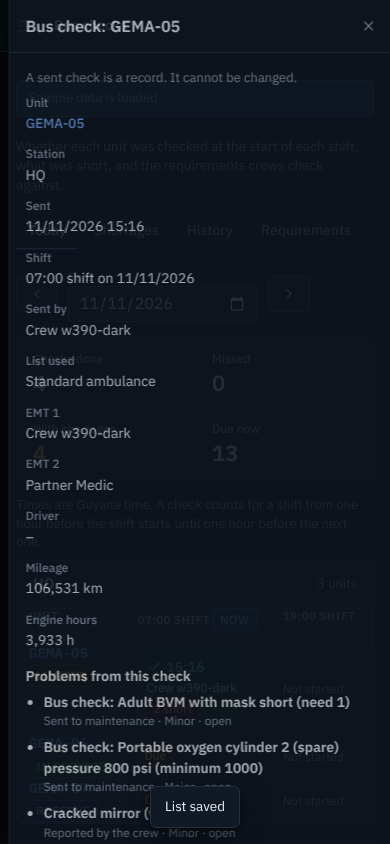
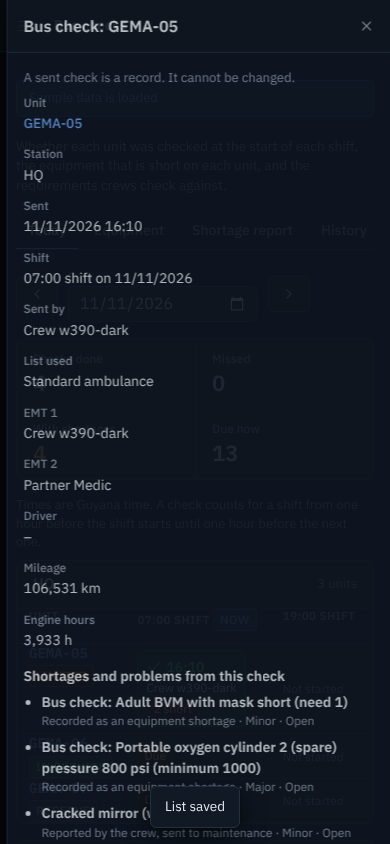
Bus checks: e2e for shortages vs problems and restocking, phone layout for shortages, docs, screenshots
Claude-Session: https://claude.ai/code/session_01YXYTtYruCkDW5r8aiUCHL9

diff --git a/src/client/buschecks-ui.ts b/src/client/buschecks-ui.ts
@@ -116,7 +116,7 @@ const lastCheckHtml = (r: any) => (r.lastCheckId && can('busCheckReports') ? `<b
 function shortageTable(rows: any[], id: string) {
   const any = rows.some((r) => eqCan(r.vehicleId));
   return `<div class="tscroll"><table class="t eqtable" id="${id}"><thead><tr><th scope="col">Item</th><th scope="col">What was found</th><th scope="col">First found</th><th scope="col" class="n">Checks</th><th scope="col">Last check</th>${any ? '<th scope="col"><span class="sr">Action</span></th>' : ''}</tr></thead><tbody>
-    ${rows.map((r) => `<tr id="eq-${esc(r.id)}"><td>${r.code ? `<span class="bccode">${esc(r.code)}</span> ` : ''}<b>${esc(r.name)}</b>${r.section ? `<div class="tiny muted">${esc(r.section)}</div>` : ''}</td><td>${esc(r.found)}</td><td>${esc(dmyHM(r.firstAt))}</td><td class="n">${r.checks}</td><td>${lastCheckHtml(r)}</td>${any ? `<td class="eqact">${eqCan(r.vehicleId) ? `<button type="button" class="btn sm" data-act="eq-restock" data-id="${esc(r.id)}" id="eqr-${esc(r.id)}" aria-label="Mark ${esc(r.name)} on ${esc(r.unit)} restocked"${rs.restocking ? ' disabled' : ''}>Mark restocked</button>` : ''}</td>` : ''}</tr>`).join('')}</tbody></table></div>`;
+    ${rows.map((r) => `<tr id="eq-${esc(r.id)}"><td>${r.code ? `<span class="bccode">${esc(r.code)}</span> ` : ''}<b>${esc(r.name)}</b>${r.section ? `<div class="tiny muted">${esc(r.section)}</div>` : ''}</td><td>${esc(r.found)}</td><td data-l="First found">${esc(dmyHM(r.firstAt))}</td><td class="n" data-l="Checks">${r.checks}</td><td data-l="Last check">${lastCheckHtml(r)}</td>${any ? `<td class="eqact">${eqCan(r.vehicleId) ? `<button type="button" class="btn sm" data-act="eq-restock" data-id="${esc(r.id)}" id="eqr-${esc(r.id)}" aria-label="Mark ${esc(r.name)} on ${esc(r.unit)} restocked"${rs.restocking ? ' disabled' : ''}>Mark restocked</button>` : ''}</td>` : ''}</tr>`).join('')}</tbody></table></div>`;
 }
 const eqCount = (n: number) => `${n} ${n === 1 ? 'shortage' : 'shortages'}`;
 function equipmentTab() {

diff --git a/src/client/style.css b/src/client/style.css
@@ -698,3 +698,14 @@ table.rolemx td.rc.unsaved{background:var(--accent-soft);box-shadow:inset 0 0 0 
 .bcknownl{margin:0;padding-left:18px}
 .bcknownl li{margin:0 0 8px}
 .dlg textarea{width:100%}
+@media (max-width:639.98px){
+  /* a phone cannot scroll sideways to reach Mark restocked: each shortage becomes a small card */
+  table.t.eqtable thead{display:none}
+  table.t.eqtable,table.t.eqtable tbody,table.t.eqtable tr,table.t.eqtable td{display:block;width:100%}
+  table.t.eqtable tr{padding:12px 0;border-top:1px solid var(--line)}
+  table.t.eqtable tr:first-child{border-top:none}
+  table.t.eqtable td,table.t.eqtable td:first-child,table.t.eqtable td:last-child{height:auto;padding:2px 12px;border:none;text-align:left;white-space:normal}
+  table.t.eqtable td[data-l]::before{content:attr(data-l) ": ";color:var(--muted);font-size:12px}
+  table.t.eqtable td.n{font:inherit}
+  table.t.eqtable td.eqact{padding-top:8px}
+}

diff --git a/test/api/agencies.test.ts b/test/api/agencies.test.ts
@@ -240,6 +240,11 @@ describe('ids from the other agency behave like unknown ids', () => {
     ['reset link', 'POST', '/api/users/{user}/reset-link'],
     ['download attachment', 'GET', '/api/attachments/{attachment}/file'],
     ['delete attachment', 'DELETE', '/api/attachments/{attachment}'],
+    ['restock a shortage', 'POST', '/api/bus-checks/equipment/restock', { ids: ['{issue}'] }],
+    ['equipment of the other agency\'s unit', 'GET', '/api/bus-checks/equipment?vehicleId={vehicle}'],
+    ['equipment of the other agency\'s base', 'GET', '/api/bus-checks/equipment?baseId={base}'],
+    ['equipment export of the other agency\'s unit', 'GET', '/api/bus-checks/equipment/export?vehicleId={vehicle}'],
+    ['known shortages of the other agency\'s unit', 'GET', '/api/bus-checks/equipment/known?vehicleId={vehicle}'],
   ];
   it('B using GEMA ids', async () => {
     await same(bAdmin, calls, { ...G, line: 'l-1' });

diff --git a/docs/HANDOVER.md b/docs/HANDOVER.md
@@ -76,34 +76,48 @@ Every change a person makes, and every sign-in, is recorded in the `audit_log` t
 
 ## Bus checks (start-of-shift ambulance inspection)
 
-**What it is.** A crew member opens **Operations > Bus check** on their phone, picks the unit, and does the full inspection: crew, mileage and engine hours, every item on the list for that kind of unit, any extra problems, and a confirmation tick. Managers read the results at **Admin > Bus checks**. The owner's decisions: it is always the full check (no quick version); different units can have different lists; a crew can send a check with shortages, and every shortage becomes a problem in maintenance automatically; fleet managers, system administrators and the super user can change the requirements.
+**What it is.** A crew member opens **Operations > Bus check** on their phone, picks the unit, and does the full inspection: crew, mileage and engine hours, every item on the list for that kind of unit, any extra problems, and a confirmation tick. Managers read the results at **Admin > Bus checks**. The owner's decisions: it is always the full check (no quick version); different units can have different lists; a crew can send a check with shortages; **equipment shortages are kept apart from vehicle problems** (below), and only a problem the crew types in themselves goes to maintenance; fleet managers, system administrators and the super user can change the requirements.
 
-**Who can do what** (three switches in Roles & permissions, so they can also be changed per role or per person; the server checks every one, the screen only hides what a person cannot use):
+**Who can do what** (four switches in Roles & permissions, so they can also be changed per role or per person; the server checks every one, the screen only hides what a person cannot use):
 
 | Switch | Default roles | Notes |
 | --- | --- | --- |
 | Do bus checks | Crew, base supervisor, fleet manager, system administrator | Only on units the person may act on: crew at their bases (all units if they have no bases set), base supervisors at their bases |
-| View bus check reports | Base supervisor (their own bases only), fleet manager, system administrator | Today, Shortages, History, one check, CSV exports, the unit's Bus checks tab |
+| View bus check reports | Base supervisor (their own bases only), fleet manager, system administrator | Today, Equipment, Shortage report, History, one check, CSV exports, the unit's Bus checks tab |
+| Mark equipment restocked | Base supervisor (only units at their own bases), fleet manager, system administrator | The Mark restocked buttons. This switch alone (without the reports switch) is also enough to see the Equipment tab and the unit's shortages |
 | Edit bus check requirements | Fleet manager, system administrator | The Requirements tab. The super user can do everything |
 
 **Requirement lists.** A list has a name, the unit types it covers (the `Type` of the unit, for example "Type II ambulance"), an active switch, and sections of items. A unit uses the active list that names its type; if none does, the active list with **no** unit types (the default). The server refuses to save two active lists that name the same type, or two defaults, so only one list ever applies. An item is one of five kinds: *count* (a minimum quantity: the crew answer OK or Short, and Short needs a whole number below the minimum), *check* (Pass or Fail), *number* (a reading with a minimum, for example oxygen pressure), *date* (a date that must not have passed, for example a cylinder test) and *optional* (present or not there, never a shortage). Nothing is added by the migration: an agency with no list sees **Start from the standard list** (based on the equipment sections of the NYS DOH-3780 ambulance check sheet, 79 items in 8 sections, which is then editable like any other). Lists can be duplicated (the copy is inactive until it is given unit types), renamed, re-typed, edited (add, change, remove, move up or down), and made inactive. Every change is in Activity history.
 
 **A sent check never changes.** Each check keeps its own copy of the list it was done against and of every answer, so editing a list later does not rewrite history. There is no edit or delete for a check, in the screen or the API.
 
-**What sending does.** In one database write, the server saves the check, the meter reading (source `bus_check`, with the same limits and "looks wrong" flagging as Log engine hours), the problems the crew reported, and one problem for each shortage. Titles read like `Bus check: Sterile gauze pads 4x4" short (2 of 6)`, `Bus check: Seatbelts failed`, `Bus check: Oxygen cylinder 1 pressure 800 psi (minimum 1000)`, `Bus check: Portable oxygen cylinder 1 hydrostatic test expired 01/02/2025`. Severity: a failed check, a low reading or an expired date is **Major**; a short count is **Minor**. A shortage is never **Critical**, because Critical takes the unit out of service on its own; a problem the crew choose to report themselves can be Critical and then behaves exactly as usual. If the unit already has an **open** problem from an earlier bus check for the same item, the new shortage is added to that problem (a line is appended to its description) instead of creating another; once that problem is resolved or dismissed, the next shortage creates a new one. Problems know their check (`issues.bus_check_id`, `source`, `source_ref`) and show a **Bus check** badge.
+**What sending does.** In one database write, the server saves the check, the meter reading (source `bus_check`, with the same limits and "looks wrong" flagging as Log engine hours), the vehicle problems the crew reported, and one **equipment shortage** for each shortage. Titles read like `Bus check: Sterile gauze pads 4x4" short (2 of 6)`, `Bus check: Seatbelts failed`, `Bus check: Oxygen cylinder 1 pressure 800 psi (minimum 1000)`, `Bus check: Portable oxygen cylinder 1 hydrostatic test expired 01/02/2025`. If the unit already has an **open** shortage for the same item, the new finding is added to it (a "Found again" line is appended to its description) instead of creating another. Once that shortage is **restocked**, the next check that finds the item short creates a **new** shortage (the closed one is not reopened). The crew's confirm and done screens say so: shortages are "recorded for restocking", problems they reported are "sent to maintenance as vehicle problems".
+
+**Equipment shortages are not vehicle problems (owner's decision).** A shortage is still a row in the `issues` table (`source = 'bus_check'`, `source_ref` = the list item id, `bus_check_id` = the check that found it; that is what de-duplication, the links and the history use), but it is filtered out of everything that is about the vehicle: the Problems page and its counts and filters, the unit page's Issues tab and counts, the status board and dispatch badges, the Critical issues count, the work order "create from selected problems" flow, the Reports screen, and anything that decides availability. It works like this: the sync never sends `source = 'bus_check'` rows (`syncWhere` on the `issues` spec in `src/worker/docs.ts`, used by `src/worker/sync.ts`; the browser also drops any that slip through in `applySync`); `POST /api/issues/:id/dismiss`, `POST /api/work-orders` with such an id, and uploading a file to one answer 404; completing or reopening a work order never touches one. A shortage never changes a unit's status (the old rule that it is never Critical stays; the severity stored is only used for the title). A problem the crew types in (`source = 'bus_check_report'`) stays an ordinary vehicle problem with the small **Bus check** label, and a Critical one takes the unit out of service as before. **If you add a new place that reads `issues`, exclude `source = 'bus_check'` there** (or read it from the sync, which already does).
+
+**Restocking.** **Mark restocked** (one shortage, or **Mark all restocked** for a unit) opens a small confirm with an optional note (200 characters), then `POST /api/bus-checks/equipment/restock { ids, note }` sets the shortage's status to `restocked` (added to `ISSUE_ST` as "Restocked"; the status column is free text, so no migration of old rows), stores who and when (`issues.restocked_by`, `issues.restocked_at`, migration `0007_bus_check_restock.sql`), appends `Restocked by <name> on <date>. Note: ...` to its description, and writes one `issue.restock` audit row each ("Marked 'Gauze short (2 of 6)' restocked on GEMA-03 (note)" in Activity history), all in one batch. If any id is not a shortage of this agency, or is on a unit outside the person's bases, the whole request answers 404 and nothing changes; an already restocked one answers 409. `restocked` leaves the partial unique index on open shortages, which is what lets a later shortage start a new row.
 
 **Shifts.** Setup > Settings has **Bus check shift start times** (default `07:00, 19:00`, Guyana time, 1 to 6 times at least 2 hours apart). A check counts for the shift whose window contains the moment it was sent. A shift's window starts **one hour before** the shift starts and ends one hour before the next shift starts, so a check done at 06:20 counts for the 07:00 shift and one done at 18:05 counts for the 19:00 shift; a check sent after midnight belongs to the evening shift that started the day before. The **Today** tab shows, for each unit that is expected to be checked and each shift of the chosen day: **Checked** (who, when, how many shortages, a link), **Missed** (the window has closed with no check), **Due** (the window is open and the shift has started), **Not started** (shift not started yet) or **Not expected** (the unit was out of service when the shift started, or was not in the fleet yet). A unit that is out of service but was checked anyway shows Checked. If a unit has two checks in the same window, the first is shown and the cell says how many there were.
 
-**Reports** (Admin > Bus checks): *Today* (above, with a date picker and counts of checks done, missed and with shortages), *Shortages* (date range, default the last 30 days; the items most often short, with the number of units, and the units with most shortages; CSV), *History* (newest first, 50 at a time; filters for unit, station, person, dates and only checks with shortages; open one to see the whole check read-only; CSV), *Requirements* (only with the edit switch). A unit's own page has a **Bus checks** tab. CSV exports stop at the newest 5,000 rows and say so.
+**Reports** (Admin > Bus checks, tabs in this order): *Today* (above, with a date picker and counts of checks done, missed and with shortages), *Equipment* (the open shortages grouped by base and then unit, each with the item, what was found the last time, first found, how many checks found it, and the last check; filters for station and unit; **Mark restocked** / **Mark all restocked** per unit; a collapsible **Restocked recently** (last 30 days, with who, when and the note); CSV of the open shortages), *Shortage report* (formerly "Shortages": date range, default the last 30 days; the items most often short, with the number of units, and the units with most shortages; CSV), *History* (newest first, 50 at a time; filters for unit, station, person, dates and only checks with shortages; open one to see the whole check read-only; CSV), *Requirements* (only with the edit switch). A unit's own page has a **Bus checks** tab that also lists the unit's open equipment shortages (with Mark restocked when allowed). The crew's Bus check screen shows, once a unit is chosen, a **Known shortages on this unit** panel (`GET /api/bus-checks/equipment/known?vehicleId=`, needs only the right to do bus checks on that unit). CSV exports stop at the newest 5,000 rows and say so.
+
+**Equipment endpoints** (all start with the caller's agency; another agency's id is "not found"):
+
+| Method and path | Needs | Scope |
+| --- | --- | --- |
+| `GET /api/bus-checks/equipment?baseId&vehicleId&recent=1` | reports **or** restock | supervisors: units at their bases; filters naming a unit or base outside the agency or the bases: 404 |
+| `GET /api/bus-checks/equipment/export?baseId&vehicleId` | reports **or** restock | same; CSV of the open shortages |
+| `GET /api/bus-checks/equipment/known?vehicleId=` | do bus checks | units the person may check |
+| `POST /api/bus-checks/equipment/restock` `{ ids, note? }` | restock | units at the supervisor's bases (404 otherwise) |
 
 **Agency and base rules.** Both new tables carry `agency_id`; every query starts with the caller's agency from the session, and every id that arrives from the browser (unit, base, list, person, check) is looked up inside that agency first, so another agency's id behaves like one that does not exist (404, or 400 for an id inside a form). A base supervisor's reports cover the units **currently at** their bases (a unit moved away disappears from their Today and Shortages); their History base filter is the station the crew entered. Asking for a unit, station or person outside the agency or the person's bases is "not found".
 
 **Things to know.**
 - Each check stores its list and answers (roughly 10 KB), so about 20 KB per unit a day with two shifts. A fleet of 20 units makes about 150 MB a year in the database and the nightly backup. If that ever matters, store only the answers and a version of the list instead.
 - The crew's unsent check is kept in the browser (per person and unit, for 24 hours) so a lost signal does not lose the work. It is deleted when the check is sent.
-- Sending twice (a double tap, a retry after a lost connection) saves one check: the browser sends a reference and the server returns the first result. Two crews sending a check for the same unit at the same moment cannot create two problems for the same open shortage (a database index guards it and the second attempt joins the first).
+- Sending twice (a double tap, a retry after a lost connection) saves one check: the browser sends a reference and the server returns the first result. Two crews sending a check for the same unit at the same moment cannot create two shortages for the same open item (a database index guards it and the second attempt joins the first).
 - A "looks wrong" reading (lower than the unit's current reading, or more than 24 hours a day since the last one) is saved flagged and does not change the unit's hours until a supervisor accepts it, exactly as for Log engine hours. The check itself is still saved.
-- Where the code is: shared rules (item kinds, shortages, list choice, shifts) `src/shared/buscheck.ts` and the starter list `src/shared/busCheckStarter.ts`; the server `src/worker/buscheck.ts`; the screens `src/client/buscheck-ui.ts` (do a check), `buschecks-ui.ts` (reports) and `busreq-ui.ts` (requirements); table definitions `migrations/0006_bus_checks.sql`; tests `test/api/buscheck.test.ts`, `test/unit/buscheck.test.ts` and the bus check part of `scripts/e2e.mjs`.
+- Where the code is: shared rules (item kinds, shortages, list choice, shifts) `src/shared/buscheck.ts` and the starter list `src/shared/busCheckStarter.ts`; the server `src/worker/buscheck.ts`; the screens `src/client/buscheck-ui.ts` (do a check), `buschecks-ui.ts` (reports) and `busreq-ui.ts` (requirements); table definitions `migrations/0006_bus_checks.sql` and `0007_bus_check_restock.sql`; tests `test/api/buscheck.test.ts`, `test/unit/buscheck.test.ts` and the bus check part of `scripts/e2e.mjs`.
 
 ## Where things live
 
@@ -112,7 +126,7 @@ Every change a person makes, and every sign-in, is recorded in the `audit_log` t
 - Who is allowed to do what: `src/shared/perm.ts` (defaults and the effective-permission rule); role changes: `src/worker/roles.ts`, `src/client/roles-ui.ts`
 - PM due dates, availability, costs: `src/shared/pure.ts` (covered by unit tests)
 - Screens: `src/client/views-*.ts`; forms and buttons: `src/client/ui.ts`
-- Bus checks: `src/shared/buscheck.ts`, `src/worker/buscheck.ts`, `src/client/buscheck-ui.ts`, `buschecks-ui.ts`, `busreq-ui.ts`, `migrations/0006_bus_checks.sql`
+- Bus checks: `src/shared/buscheck.ts`, `src/worker/buscheck.ts`, `src/client/buscheck-ui.ts`, `buschecks-ui.ts`, `busreq-ui.ts`, `migrations/0006_bus_checks.sql`, `0007_bus_check_restock.sql`
 - Activity history (audit log screen): `src/shared/activity.ts`, `src/worker/activity.ts`, `src/client/activity-ui.ts`
 - Database tables: `migrations/`
 

diff --git a/README.md b/README.md
@@ -36,7 +36,7 @@ The **super user** is set in code (see [docs/HANDOVER.md](docs/HANDOVER.md)) and
 
 These rules are enforced by the server, not just hidden in the screen. People log in with an Agency ID, an email and a password. There is no public sign-up: a fleet manager or system administrator creates each account and either chooses the person's password (and hands it over) or, once email is set up, sends an invite link so the person chooses their own. With email set up there is also a "Forgot password?" link on the login page. See [docs/EMAIL.md](docs/EMAIL.md).
 
-**Bus checks.** At the start of each shift the crew do a full inspection of their ambulance on their phone (**Operations > Bus check**): the unit and station, who is on the crew, mileage and engine hours, every item on the checklist, and a tick to confirm. Anything short or failed becomes a problem in maintenance on its own, and the mileage and hours are saved as a meter reading. Managers see who has done their check, what was short and the full history at **Admin > Bus checks**, and fleet managers and system administrators can change the checklists there (**Requirements**). Three switches in Roles & permissions control it: *Do bus checks* (crew, base supervisors, fleet managers, system administrators), *View bus check reports* (base supervisors for their own bases, fleet managers, system administrators) and *Edit bus check requirements* (fleet managers and system administrators). See [docs/HANDOVER.md](docs/HANDOVER.md).
+**Bus checks.** At the start of each shift the crew do a full inspection of their ambulance on their phone (**Operations > Bus check**): the unit and station, who is on the crew, mileage and engine hours, every item on the checklist, and a tick to confirm. Anything short or failed is recorded as an **equipment shortage** (not a vehicle problem: it stays off the Problems page, work orders and a unit's status) for someone to restock, a problem the crew type in goes to maintenance as a vehicle problem, and the mileage and hours are saved as a meter reading. Managers see who has done their check, the open equipment shortages (**Equipment** tab, where **Mark restocked** closes them), the **Shortage report** and the full history at **Admin > Bus checks**, and fleet managers and system administrators can change the checklists there (**Requirements**). Four switches in Roles & permissions control it: *Do bus checks* (crew, base supervisors, fleet managers, system administrators), *View bus check reports* (base supervisors for their own bases, fleet managers, system administrators), *Mark equipment restocked* (the same roles) and *Edit bus check requirements* (fleet managers and system administrators). See [docs/HANDOVER.md](docs/HANDOVER.md).
 
 ## Quick start on your own computer
 
